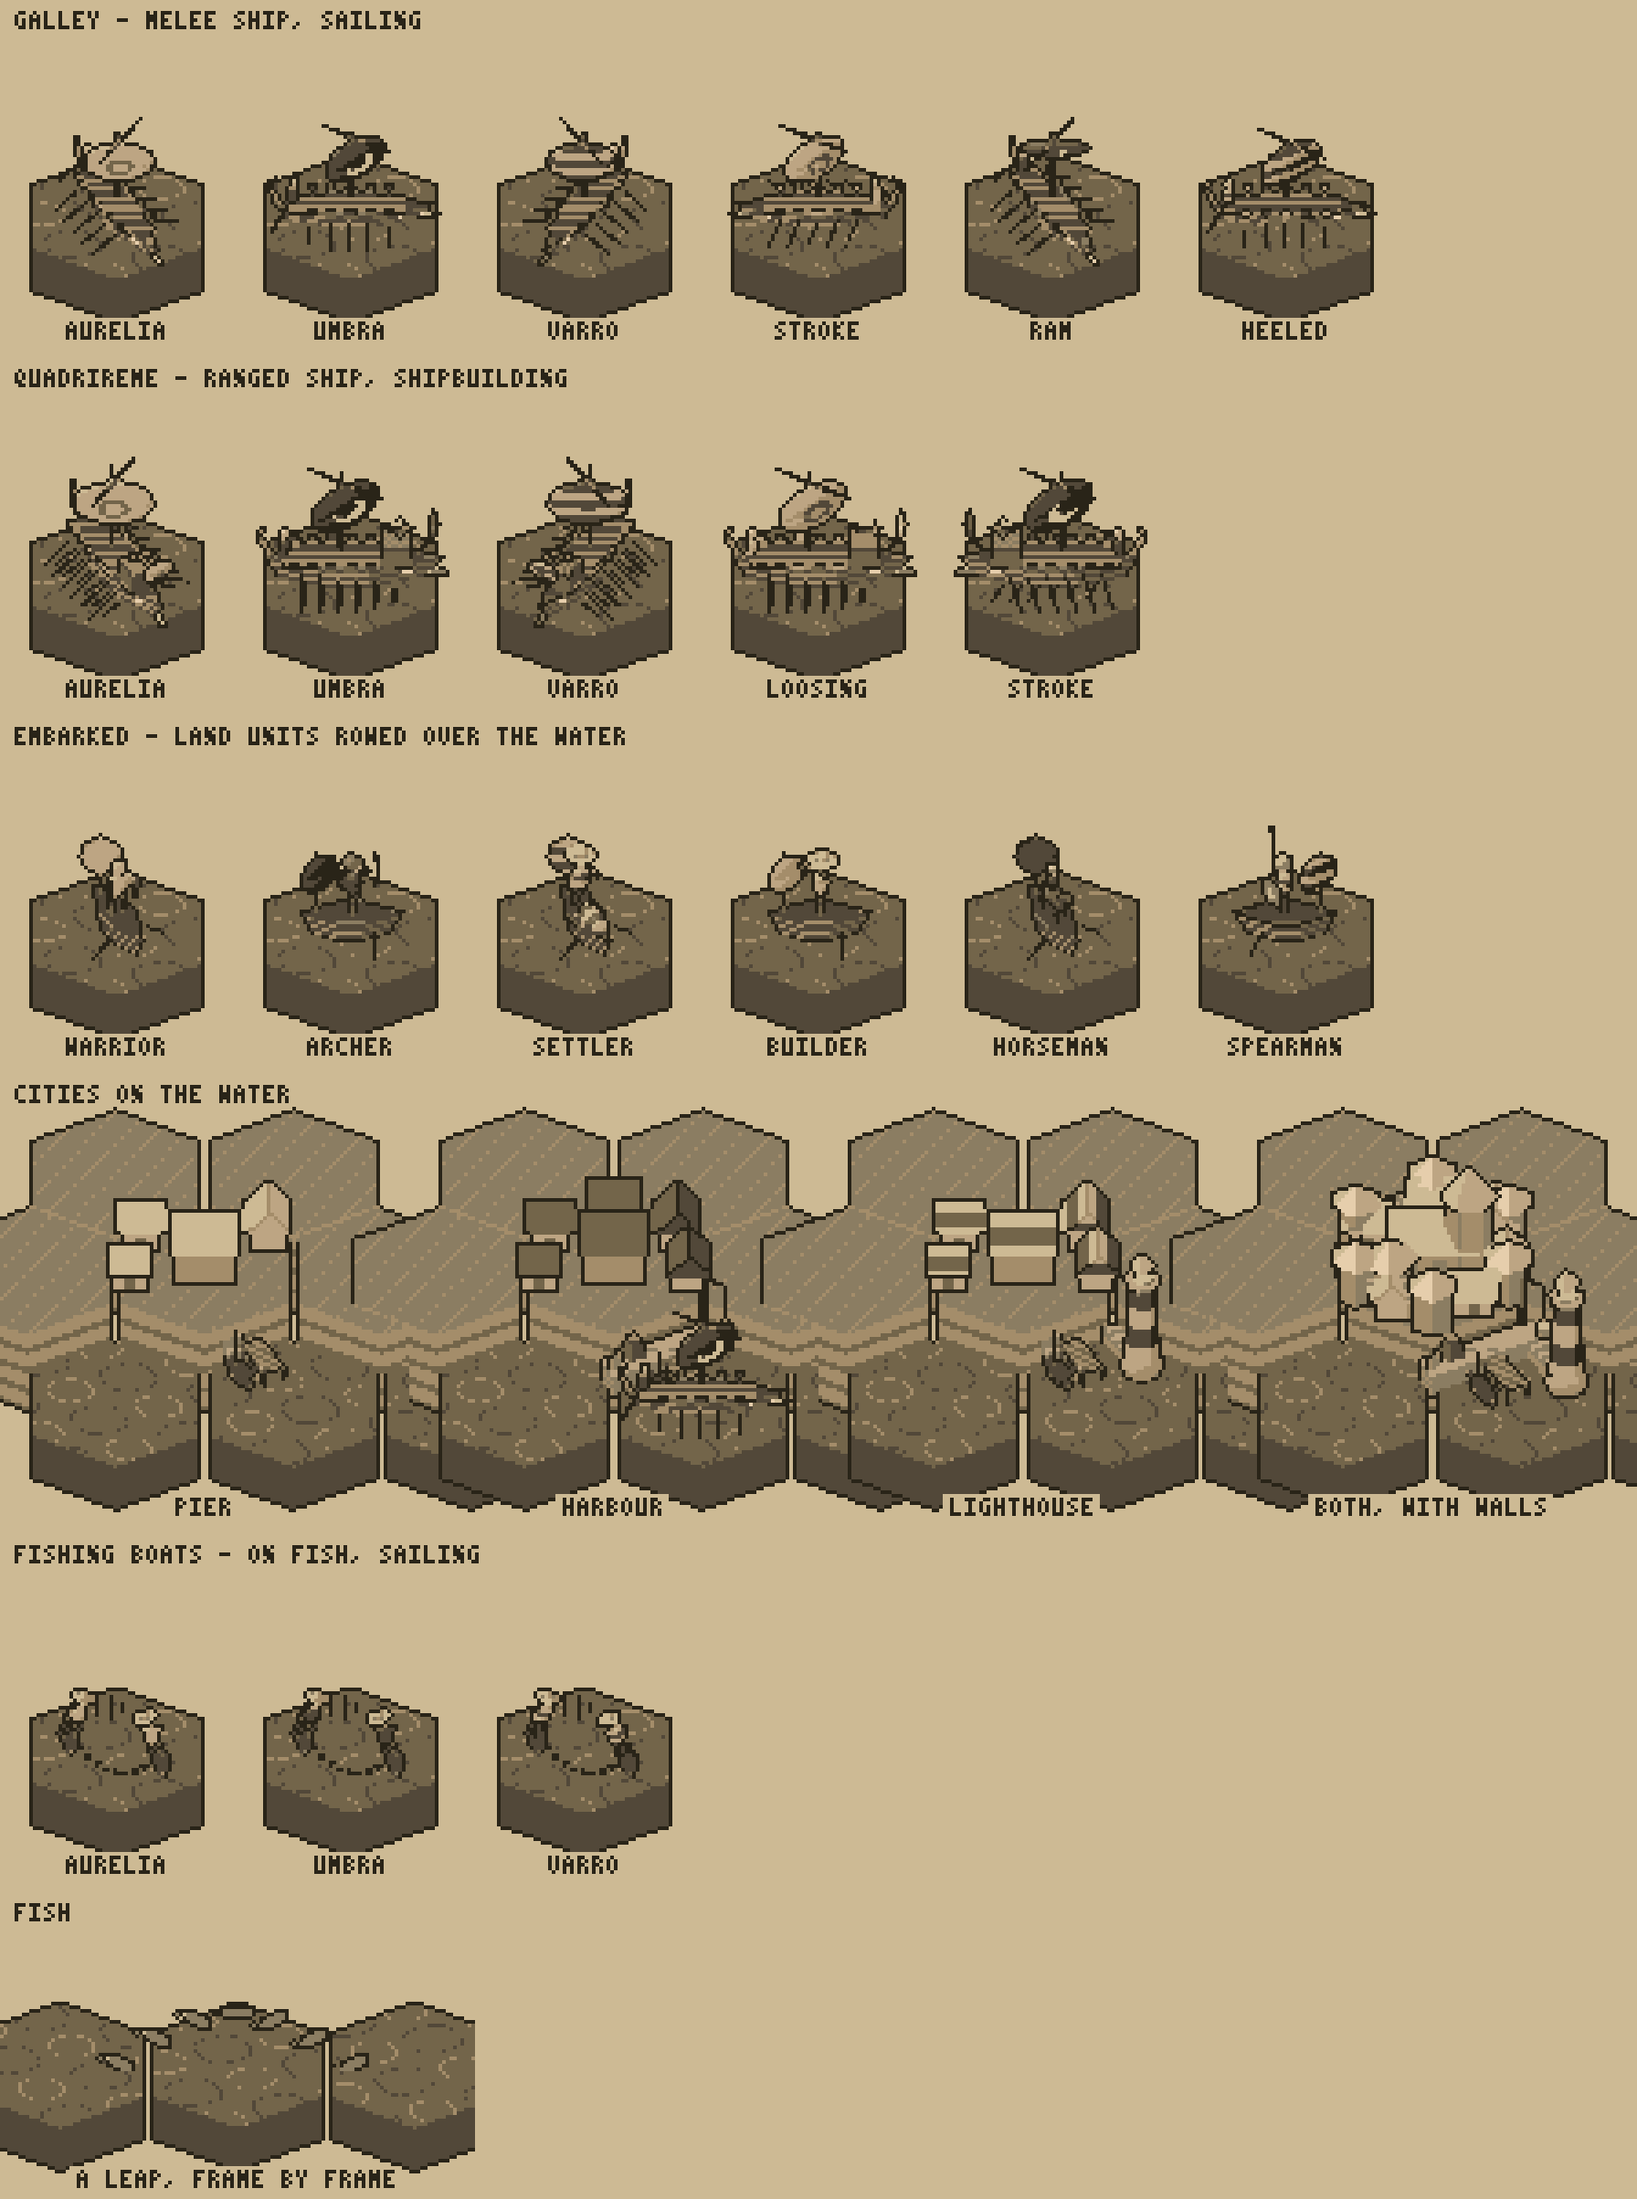
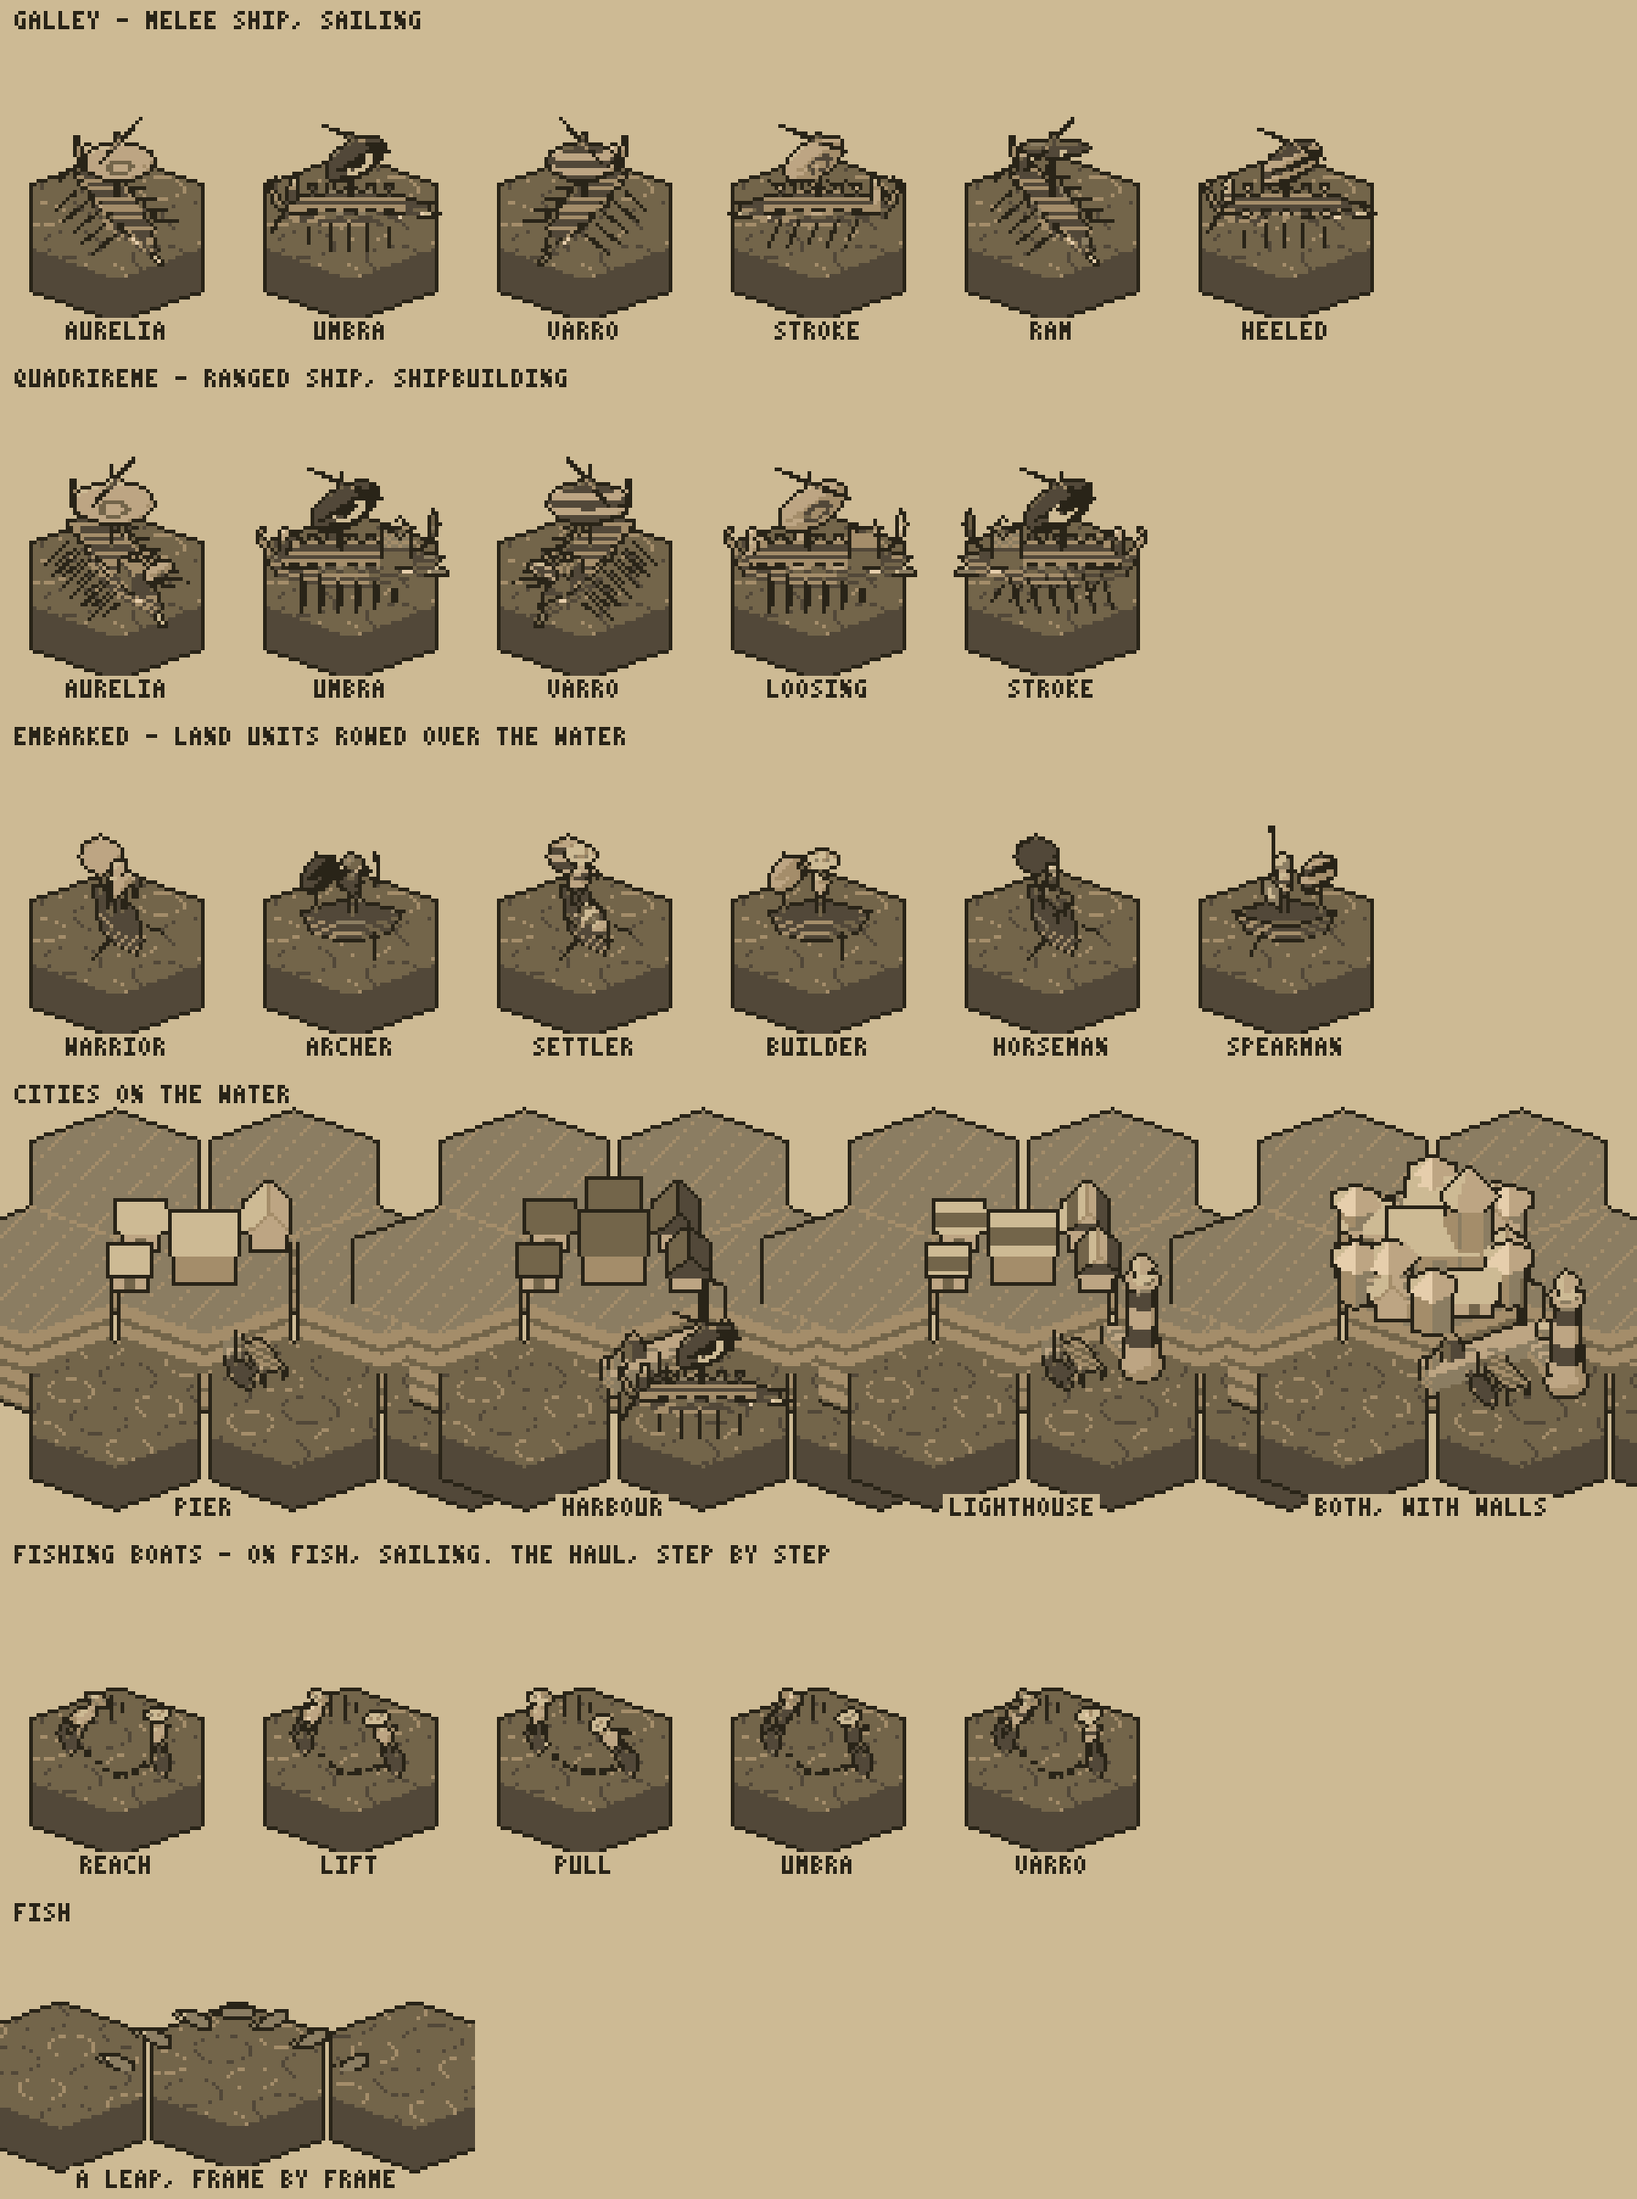
Wakes behind boats, and fishing boats at work
Anything under way on the water drops a mark off its stern every 1.2 room
units it goes (boats move seven hexes a second, so by distance rather
than time); each spreads out to either side as it ages, a V churned light
astern that breaks up and fades over 1.4 seconds, laid as a lift on the
moving sea. Fishing boats now haul their net in four steps, the two
fishers half a haul apart, the floats bobbing with it, and now and then a
fish comes up flapping and is swung aboard with a ring where it left the
water. The staged harbour view sends its galley off to show the wake.

Claude-Session: https://claude.ai/code/session_01WmGK6oUefLcsofrf36reGh

diff --git a/GUIDE.md b/GUIDE.md
@@ -692,6 +692,17 @@ crown stands, how much fog darkens it, and its colour.
   them now and then and sits to watch. Sheep don't run from anyone.
 - **Fish**: over each fish hex you can see, one leaps now and then and rings
   spread where it fell.
+- **Wakes**: anything under way on the water leaves foam off its stern, a
+  mark every 1.2 room units it goes, each kept 1.4 seconds. From each mark the
+  foam spreads out to either side as it ages, a V behind the boat (wider
+  behind a ship), churned two steps lighter close astern, then one step,
+  breaking up until it is gone. It is laid as a lift on the moving sea, so
+  the water keeps moving under it.
+- **Fishing boats** haul their net: each fisher reaches out over the side,
+  lifts, pulls it in and lifts again, a step every 0.45 seconds, the second
+  half a haul behind the first, and the floats along the net bob with it.
+  Every 9 to 14 seconds a fish comes up out of the net flapping and is swung
+  into the first boat, and a ring spreads where it came up.
 - **Boats**: ships, boats and fishing boats heel a little to one side and
   the other on the swell, each in its own time. Their hulls go on down under
   the water's top, and the board keeps a pixel only where it is nearer than

diff --git a/README.md b/README.md
@@ -63,6 +63,7 @@ and the fish leap.
 ![The sea's models](shots/09-sea-designs.png)
 ![A port](shots/11-port-close.png)
 ![The same port at midnight, its lighthouse lit](shots/12-port-night.png)
+![A galley under way, its wake behind it](shots/13-wake.png)
 
 ## Running it
 
